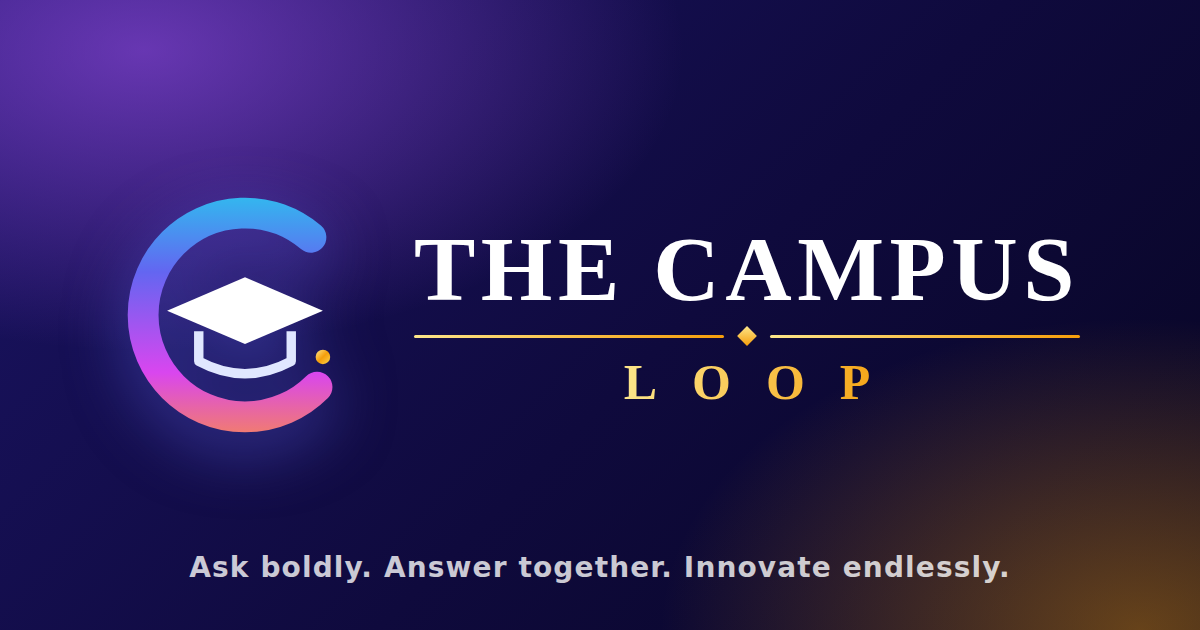
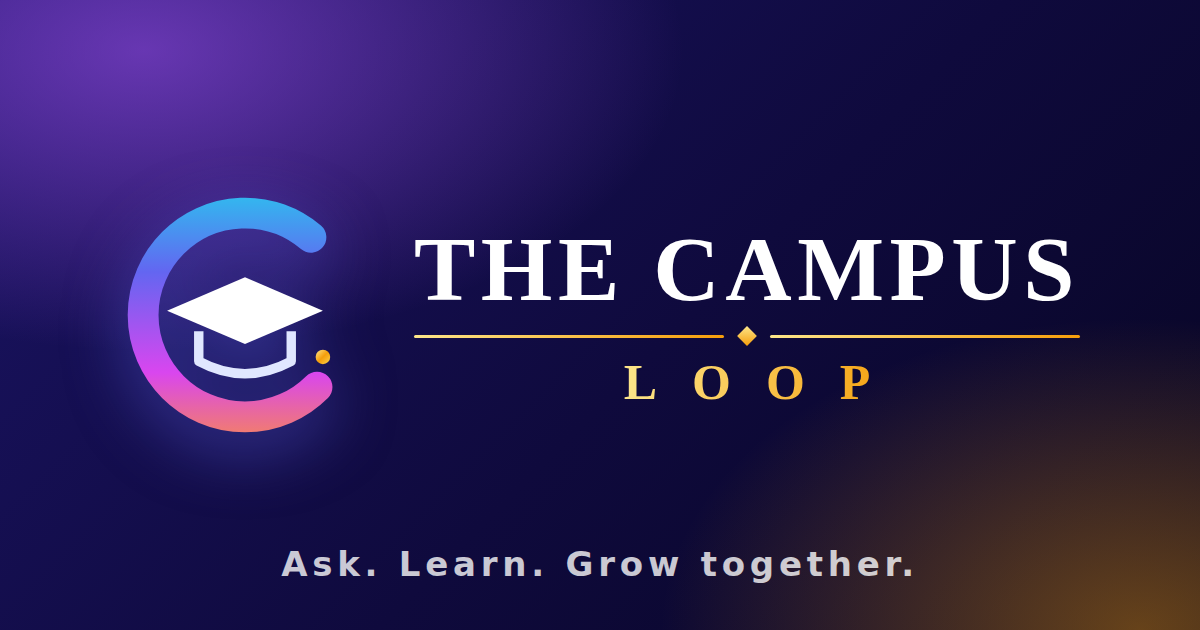
Tagline: Ask. Learn. Grow together.
Claude-Session: https://claude.ai/code/session_011ASLHPQWcKJEKKCWTNJf9W

Changed region(s): [[0.1542, 0.8746, 0.8325, 0.9349]]

diff --git a/docs/index.html b/docs/index.html
@@ -12,7 +12,7 @@
 <meta http-equiv="Content-Security-Policy" content="default-src 'self'; script-src 'self' https://www.gstatic.com; style-src 'self' https://fonts.googleapis.com; font-src https://fonts.gstatic.com; img-src 'self' https://upload.wikimedia.org https://api.dicebear.com https://img.youtube.com data: blob:; media-src 'self' blob: https:; connect-src 'self' https://en.wikipedia.org https://asia-south1-doubt-desk-e6f39.cloudfunctions.net https://*.googleapis.com https://*.firebaseio.com https://firestore.googleapis.com wss://*.firebaseio.com https://*.supabase.co wss://*.supabase.co; frame-src https://www.youtube.com; object-src 'none'; base-uri 'none'; form-action 'self'; worker-src 'self'; manifest-src 'self'; upgrade-insecure-requests;">
 
 <!-- PWA -->
-<link rel="manifest" href="manifest.json?v=347">
+<link rel="manifest" href="manifest.json?v=348">
 <meta name="mobile-web-app-capable" content="yes">
 <meta name="apple-mobile-web-app-capable" content="yes">
 <meta name="apple-mobile-web-app-status-bar-style" content="black-translucent">
@@ -22,15 +22,15 @@
 <meta name="apple-mobile-web-app-title" content="The Campus Loop">
 <link rel="icon" type="image/svg+xml" href="icon.svg">
 <link rel="icon" type="image/png" sizes="32x32" href="favicon-32.png">
-<link rel="apple-touch-icon" href="apple-touch-icon.png?v=347">
+<link rel="apple-touch-icon" href="apple-touch-icon.png?v=348">
 
 <!-- Fonts -->
 <link rel="preconnect" href="https://fonts.googleapis.com">
 <link rel="stylesheet" href="https://fonts.googleapis.com/css2?family=Bricolage+Grotesque:opsz,wght@12..96,600;12..96,800&family=Atkinson+Hyperlegible:ital,wght@0,400;0,700;1,400&family=JetBrains+Mono:wght@500&display=swap">
-<link rel="stylesheet" href="style.css?v=347">
-<link rel="stylesheet" href="sparkbot.css?v=347">
-<link rel="stylesheet" href="player.css?v=347">
-<link rel="stylesheet" href="lab.css?v=347">
+<link rel="stylesheet" href="style.css?v=348">
+<link rel="stylesheet" href="sparkbot.css?v=348">
+<link rel="stylesheet" href="player.css?v=348">
+<link rel="stylesheet" href="lab.css?v=348">
 </head>
 <body>
 <div id="splash" class="splash sp2" role="status" aria-live="polite">
@@ -38,7 +38,7 @@
   <div class="sp2-main">
     <div class="sp2-brand"><span class="sp2-bmark" aria-hidden="true"><svg class="bmark" viewBox="220 120 584 580" width="64" height="64" aria-hidden="true"><defs><linearGradient id="bmRingS" x1="0" y1="0" x2="1" y2="1"><stop offset="0" stop-color="#22d3ee"/><stop offset=".35" stop-color="#6366f1"/><stop offset=".7" stop-color="#d946ef"/><stop offset="1" stop-color="#fb923c"/></linearGradient><linearGradient id="bmGoldS" x1="0" y1="0" x2="1" y2="1"><stop offset="0" stop-color="#fde68a"/><stop offset=".5" stop-color="#f59e0b"/><stop offset="1" stop-color="#fcd34d"/></linearGradient></defs><circle cx="512" cy="410" r="238" fill="none" stroke="url(#bmRingS)" stroke-width="72" stroke-linecap="round" stroke-dasharray="1100 396" transform="rotate(45 512 410)"/><path d="M330 400 L512 322 L694 400 L512 478 Z" fill="#ffffff"/><path d="M404 448 v70 q108 58 216 0 v-70" fill="none" stroke="#e0e7ff" stroke-width="22" stroke-linejoin="round"/><path d="M694 400 v96" stroke="url(#bmGoldS)" stroke-width="10" stroke-linecap="round"/><circle cx="694" cy="508" r="17" fill="url(#bmGoldS)"/></svg></span><span class="sp2-bname"><b>THE CAMPUS</b><i>LOOP</i></span></div>
     <h1 class="splash-title sp2-h" id="splashTitle">Got a doubt? <span>Someone on your campus has the answer.</span></h1>
-    <p class="splash-sub sp2-sub" id="splashSub">Ask boldly. Answer together. Innovate endlessly.</p>
+    <p class="splash-sub sp2-sub" id="splashSub">Ask. Learn. Grow together.</p>
     <div class="sp2-crest-slot" id="splashCrestSlot"></div>
   </div>
   <div class="sp2-chips" id="splashChips" role="group" aria-label="What you can do">
@@ -78,7 +78,7 @@
   </div>
   <button type="button" class="btn primary splash-go sp2-go" id="splashGo">Join my campus →</button>
 </div>
-<script src="splash.js?v=347"></script>
+<script src="splash.js?v=348"></script>
 
 <!-- offline indicator -->
 <div id="offlineBar" class="offline-bar" hidden>📵 You're offline, showing cached posts</div>
@@ -167,16 +167,16 @@
 <!-- bottom navigation (mobile only) -->
 <nav class="bottom-nav" id="bottomNav" aria-label="Main navigation"></nav>
 
-<script defer src="config.js?v=347"></script>
-<script defer src="quiz.js?v=347"></script>
-<script defer src="plus-data.js?v=347"></script>
-<script defer src="colleges-ap.js?v=347"></script>
-<script defer src="colleges-ap2.js?v=347"></script>
-<script defer src="colleges-ap3.js?v=347"></script>
-<script defer src="college-data.js?v=347"></script>
-<script defer src="rgukt-curriculum.js?v=347"></script>
-<script defer src="colleges-india.js?v=347"></script>
-<script type="module" src="app.js?v=347"></script>
-<script src="lazy.js?v=347"></script>
+<script defer src="config.js?v=348"></script>
+<script defer src="quiz.js?v=348"></script>
+<script defer src="plus-data.js?v=348"></script>
+<script defer src="colleges-ap.js?v=348"></script>
+<script defer src="colleges-ap2.js?v=348"></script>
+<script defer src="colleges-ap3.js?v=348"></script>
+<script defer src="college-data.js?v=348"></script>
+<script defer src="rgukt-curriculum.js?v=348"></script>
+<script defer src="colleges-india.js?v=348"></script>
+<script type="module" src="app.js?v=348"></script>
+<script src="lazy.js?v=348"></script>
 </body>
 </html>

diff --git a/docs/brand/banner.html b/docs/brand/banner.html
@@ -8,6 +8,6 @@ body{background:radial-gradient(900px 500px at 12% 8%,rgba(168,85,247,.55),trans
 .rule i{flex:1;height:3px;border-radius:2px;background:linear-gradient(90deg,#fde68a,#f59e0b)}
 .rule b{width:14px;height:14px;transform:rotate(45deg);background:linear-gradient(135deg,#fde68a,#f59e0b)}
 .t2{font-size:50px;font-weight:600;letter-spacing:.7em;margin-left:.7em;background:linear-gradient(90deg,#fde68a,#f59e0b);-webkit-background-clip:text;background-clip:text;color:transparent;line-height:1}
-.tag{position:absolute;bottom:46px;left:0;right:0;text-align:center;font:600 28px system-ui,Arial,sans-serif;letter-spacing:.04em;color:rgba(255,255,255,.78)}
+.tag{position:absolute;bottom:46px;left:0;right:0;text-align:center;font:600 34px system-ui,Arial,sans-serif;letter-spacing:.14em;color:rgba(255,255,255,.78)}
 svg{filter:drop-shadow(0 18px 30px rgba(99,102,241,.5))}
-</style></head><body><div class="lock"><svg class="bmark" viewBox="220 120 584 580" width="250" height="250" aria-hidden="true"><defs><linearGradient id="bmRingS" x1="0" y1="0" x2="1" y2="1"><stop offset="0" stop-color="#22d3ee"/><stop offset=".35" stop-color="#6366f1"/><stop offset=".7" stop-color="#d946ef"/><stop offset="1" stop-color="#fb923c"/></linearGradient><linearGradient id="bmGoldS" x1="0" y1="0" x2="1" y2="1"><stop offset="0" stop-color="#fde68a"/><stop offset=".5" stop-color="#f59e0b"/><stop offset="1" stop-color="#fcd34d"/></linearGradient></defs><circle cx="512" cy="410" r="238" fill="none" stroke="url(#bmRingS)" stroke-width="72" stroke-linecap="round" stroke-dasharray="1100 396" transform="rotate(45 512 410)"/><path d="M330 400 L512 322 L694 400 L512 478 Z" fill="#ffffff"/><path d="M404 448 v70 q108 58 216 0 v-70" fill="none" stroke="#e0e7ff" stroke-width="22" stroke-linejoin="round"/><path d="M694 400 v96" stroke="url(#bmGoldS)" stroke-width="10" stroke-linecap="round"/><circle cx="694" cy="508" r="17" fill="url(#bmGoldS)"/></svg><div class="txt"><div class="t1">THE CAMPUS</div><div class="rule"><i></i><b></b><i></i></div><div class="t2">LOOP</div></div></div><div class="tag">Ask boldly. Answer together. Innovate endlessly.</div></body></html>
+</style></head><body><div class="lock"><svg class="bmark" viewBox="220 120 584 580" width="250" height="250" aria-hidden="true"><defs><linearGradient id="bmRingS" x1="0" y1="0" x2="1" y2="1"><stop offset="0" stop-color="#22d3ee"/><stop offset=".35" stop-color="#6366f1"/><stop offset=".7" stop-color="#d946ef"/><stop offset="1" stop-color="#fb923c"/></linearGradient><linearGradient id="bmGoldS" x1="0" y1="0" x2="1" y2="1"><stop offset="0" stop-color="#fde68a"/><stop offset=".5" stop-color="#f59e0b"/><stop offset="1" stop-color="#fcd34d"/></linearGradient></defs><circle cx="512" cy="410" r="238" fill="none" stroke="url(#bmRingS)" stroke-width="72" stroke-linecap="round" stroke-dasharray="1100 396" transform="rotate(45 512 410)"/><path d="M330 400 L512 322 L694 400 L512 478 Z" fill="#ffffff"/><path d="M404 448 v70 q108 58 216 0 v-70" fill="none" stroke="#e0e7ff" stroke-width="22" stroke-linejoin="round"/><path d="M694 400 v96" stroke="url(#bmGoldS)" stroke-width="10" stroke-linecap="round"/><circle cx="694" cy="508" r="17" fill="url(#bmGoldS)"/></svg><div class="txt"><div class="t1">THE CAMPUS</div><div class="rule"><i></i><b></b><i></i></div><div class="t2">LOOP</div></div></div><div class="tag">Ask. Learn. Grow together.</div></body></html>

diff --git a/docs/sw.js b/docs/sw.js
@@ -1,32 +1,32 @@
 // RGUKT Spark service worker, v36
 // Cache versioned assets only. Never cache index.html so updates deploy instantly.
-const CACHE = 'spark-v347';
+const CACHE = 'spark-v348';
 const SHELL = [
-  './style.css?v=347',
-  './sparkbot.css?v=347',
-  './config.js?v=347',
-  './quiz.js?v=347',
-  './splash.js?v=347',
-  './plus-data.js?v=347',
-  './colleges-ap.js?v=347',
-  './colleges-ap2.js?v=347',
-  './colleges-ap3.js?v=347',
-  './college-data.js?v=347',
-  './rgukt-curriculum.js?v=347',
-  './curiosity.js?v=347',
-  './rgukt-units.js?v=347',
-  './lazy.js?v=347',
-  './colleges-india.js?v=347',
-  './app.js?v=347',
-  './sparkbot.js?v=347',
-  './player.js?v=347',
-  './player.css?v=347',
-  './tools-core.js?v=347',
-  './tools-math.js?v=347',
-  './tools-eng.js?v=347',
-  './tools-life.js?v=347',
-  './lab.js?v=347',
-  './lab.css?v=347',
+  './style.css?v=348',
+  './sparkbot.css?v=348',
+  './config.js?v=348',
+  './quiz.js?v=348',
+  './splash.js?v=348',
+  './plus-data.js?v=348',
+  './colleges-ap.js?v=348',
+  './colleges-ap2.js?v=348',
+  './colleges-ap3.js?v=348',
+  './college-data.js?v=348',
+  './rgukt-curriculum.js?v=348',
+  './curiosity.js?v=348',
+  './rgukt-units.js?v=348',
+  './lazy.js?v=348',
+  './colleges-india.js?v=348',
+  './app.js?v=348',
+  './sparkbot.js?v=348',
+  './player.js?v=348',
+  './player.css?v=348',
+  './tools-core.js?v=348',
+  './tools-math.js?v=348',
+  './tools-eng.js?v=348',
+  './tools-life.js?v=348',
+  './lab.js?v=348',
+  './lab.css?v=348',
   './manifest.json',
   './icon.svg',
   './icon-192.png',

diff --git a/docs/admin.html b/docs/admin.html
@@ -8,15 +8,15 @@
 <meta http-equiv="Content-Security-Policy" content="default-src 'self'; script-src 'self' https://www.gstatic.com; style-src 'self' https://fonts.googleapis.com; font-src https://fonts.gstatic.com; img-src 'self' https://api.dicebear.com https://img.youtube.com data: blob:; media-src 'self' blob: https:; connect-src 'self' https://*.googleapis.com https://*.firebaseio.com https://firestore.googleapis.com wss://*.firebaseio.com https://*.supabase.co wss://*.supabase.co; frame-src https://www.youtube.com; object-src 'none'; base-uri 'none'; form-action 'self'; worker-src 'self'; manifest-src 'self'; upgrade-insecure-requests;">
 <title>The Campus Loop Admin</title>
 <link rel="icon" type="image/svg+xml" href="icon.svg">
-<link rel="stylesheet" href="admin.css?v=347">
+<link rel="stylesheet" href="admin.css?v=348">
 </head>
 <body>
 <div id="app" class="adm"><p class="adm-load">Loading…</p></div>
-<script src="config.js?v=347"></script>
-<script src="colleges-ap.js?v=347"></script>
-<script src="colleges-ap2.js?v=347"></script>
-<script src="colleges-ap3.js?v=347"></script>
-<script src="colleges-india.js?v=347"></script>
-<script type="module" src="admin.js?v=347"></script>
+<script src="config.js?v=348"></script>
+<script src="colleges-ap.js?v=348"></script>
+<script src="colleges-ap2.js?v=348"></script>
+<script src="colleges-ap3.js?v=348"></script>
+<script src="colleges-india.js?v=348"></script>
+<script type="module" src="admin.js?v=348"></script>
 </body>
 </html>

diff --git a/docs/colleges.html b/docs/colleges.html
@@ -1,7 +1,7 @@
 <!doctype html>
 <html lang="en"><head><meta charset="utf-8"><meta name="viewport" content="width=device-width,initial-scale=1">
 <meta http-equiv="Content-Security-Policy" content="default-src 'none'; style-src 'self'; script-src 'self'; img-src 'self'; base-uri 'none'; form-action 'none'">
-<title>The Campus Loop for colleges</title><link rel="icon" href="favicon-32.png"><link rel="stylesheet" href="legal.css?v=347"></head>
+<title>The Campus Loop for colleges</title><link rel="icon" href="favicon-32.png"><link rel="stylesheet" href="legal.css?v=348"></head>
 <body><div class="wrap"><header><a href="./">← The Campus Loop</a></header>
 <h1>The Campus Loop for colleges</h1><p class="meta">One safe, moderated, ad-free study community for your students, with Plus included for everyone.</p>
 <div class="card"><h2>What your college gets</h2><ul>
@@ -18,4 +18,4 @@
 <p>Free pilot for one semester. Prices are yearly and exclude GST. <span class="todo">[Confirm your final prices]</span></p>
 <p><a id="quote" href="#"><b>Request a quote by e-mail</b></a></p></div>
 <nav class="legal"><a href="terms.html">Terms of Use</a><a href="privacy.html">Privacy Policy</a><a href="refund.html">Refund Policy</a></nav></div>
-<script src="colleges-page.js?v=347"></script></body></html>
+<script src="colleges-page.js?v=348"></script></body></html>

diff --git a/docs/app.js b/docs/app.js
@@ -243,7 +243,7 @@ if (!CLUBS.includes("Alumni")) CLUBS.push("Alumni");
 
 const PALETTE = ["#6366f1", "#0ea5e9", "#10b981", "#f59e0b", "#a855f7", "#ec4899", "#ef4444", "#14b8a6", "#84cc16", "#f97316", "#64748b"];
 const FB_VERSION = "10.12.2";
-const MOTTO = CFG.tagline || "Ask boldly. Answer together. Innovate endlessly.";
+const MOTTO = CFG.tagline || "Ask. Learn. Grow together.";
 // Captions that rotate under the title. Edit them in config.js under `captions`.
 const CAPTIONS = (CFG.captions && CFG.captions.length) ? CFG.captions : [
   MOTTO,
